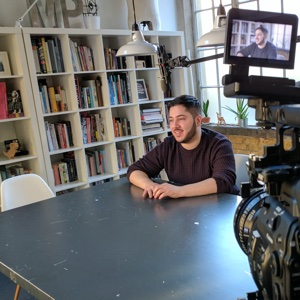
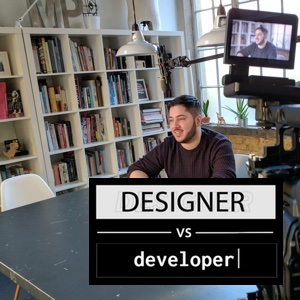
adding podcast

Changed region(s): [[0.27, 0.57, 0.96, 0.96]]

diff --git a/gulp-tasks/build.js b/gulp-tasks/build.js
@@ -79,7 +79,7 @@ gulp.task('build:http203Podcast', function() {
   wfTemplateHelper.generatePodcastFeed(files, options);
 });
 
-gulp.task('build:DesignerVsDeveloper', function() {
+gulp.task('build:DVDPodcast', function() {
   var src = 'shows/designer-vs-developer/podcast/';
   var baseOutputPath = path.join(GLOBAL.WF.src.content, src);
   var options = {
@@ -93,7 +93,9 @@ gulp.task('build:DesignerVsDeveloper', function() {
     baseUrl: 'https://developers.google.com/web/shows/designer-vs-developer/podcast/'
   };
   var files = wfHelper.getFileList(baseOutputPath, ['*.md', '!index.md']);
+  console.log(files);
   files.sort(wfHelper.updatedComparator);
+
   wfTemplateHelper.generateListPage(files, options);
   wfTemplateHelper.generatePodcastFeed(files, options);
 });
@@ -154,6 +156,7 @@ gulp.task('build', function(cb) {
       'build:showcase',
       'build:shows',
       'build:http203Podcast',
+      'build:DVDPodcast',
       'build:tools',
       'build:updates'
     ],

diff --git a/src/content/en/shows/designer-vs-developer/podcast/DVDS1E01-creating-a-collaborative-environment.md b/src/content/en/shows/designer-vs-developer/podcast/DVDS1E01-creating-a-collaborative-environment.md
@@ -1,22 +1,23 @@
 project_path: /web/_project.yaml
 book_path: /web/shows/_book.yaml
-description: Just make it look pretty...
+description: This week we speak to Jake Archibald about communication and the assumption that designers and developers sole role is to either make things look pretty or to be a cog in a machine with no soul.
 
-{# wf_updated_on: 2017-07-03 #}
-{# wf_published_on: 2017-07-03 #}
-{# wf_podcast_audio: https://storage.googleapis.com/http-203-podcast/episode-2.mp3 #}
-{# wf_podcast_duration: 00:13:08 #}
+
+{# wf_updated_on: 2017-03-07 #}
+{# wf_published_on: 2017-03-07 #}
+{# wf_podcast_audio: https://storage.googleapis.com/http-203-podcast/designer-vs-developer/dvd-s01-e01-creative-collaborations.mp3 #}
+{# wf_podcast_duration: 00:13:28 #}
 {# wf_podcast_fileSize: 12609607 #}
 {# wf_podcast_subtitle: This week we speak to Jake Archibald about communication and the assumption that designers and developers sole role is to either make things look pretty or to be a cog in a machine with no soul. #}
-{# wf_featured_image: /web/shows/designer-vs-developer/podcast/images/dvd-s1-ep01.png #}
+{# wf_featured_image: /web/shows/designer-vs-developer/podcast/images/dvd-series-cover.jpg #}
 
-# Just make it look pretty... {: .page-title }
+# Creating a collaborative environment {: .page-title }
 
 Welcome to Designer Vs Developer, a show that tries to solve the challenges faced in industry by having an open conversation between the two, providing take aways, solutions to workflows, tools & discussions on everyday struggles. 
 
 This week we speak to Jake Archibald about communication and the assumption that designers and developers sole role is to either make things look pretty or to be a cog in a machine with no soul.
 
-<img src="/web/shows/designer-vs-developer/podcast/images/dvd-s1-ep01.png" class="attempt-right">
+<img src="/web/shows/designer-vs-developer/podcast/images/dvd-s01-e01-cover.jpg" class="attempt-right">
 
 In this episode:
 
@@ -26,9 +27,9 @@ In this episode:
 * Jake's Service Workers
 * Designers lack of version control
 
-<a href="http://feeds.feedburner.com/Http203Podcast">
+<!-- <a href="http://feeds.feedburner.com/Http203Podcast">
   <span class="material-icons">rss_feed</span>
   Subscribe
-</a>
+</a> -->
 
-<audio src="https://storage.googleapis.com/http-203-podcast/episode-2.mp3" controls preload="none">
+<audio src="https://storage.googleapis.com/http-203-podcast/designer-vs-developer/dvd-s01-e01-creative-collaborations.mp3" controls preload="none">

diff --git a/src/content/en/shows/designer-vs-developer/podcast/index.md b/src/content/en/shows/designer-vs-developer/podcast/index.md
@@ -1,0 +1,30 @@
+project_path: /web/_project.yaml
+book_path: /web/shows/_book.yaml
+
+{# wf_auto_generated #}
+{# wf_updated_on: 1900-01-01 #}
+{# wf_published_on: 1900-01-01 #}
+
+# Designer Vs Developer {: .page-title }
+
+
+## Creating a collaborative environment
+<div class="attempt-right">
+    <img src="/web/shows/designer-vs-developer/podcast/images/dvd-series-cover.jpg">
+</div>
+This week we speak to Jake Archibald about communication and the assumption that designers and developers sole role is to either make things look pretty or to be a cog in a machine with no soul.
+
+[Read more](/web/shows/designer-vs-developer/podcast/DVDS1E01-creating-a-collaborative-environment)
+
+
+
+
+<div style="clear:both"></div>
+
+
+<a href="https://developers.google.com/web/shows/rss.xml">
+  <img src="/web/images/md-icons/ic_rss_feed_black_48dp.svg" style="height:36px;">
+  <span style="position:relative;top:-6px;">Subscribe</span>
+  <link rel="alternate" type="application/rss+xml" title="RSS" href="https://developers.google.com/web/shows/rss.xml">
+  <link rel="alternate" type="application/atom+xml" title="ATOM" href="https://developers.google.com/web/shows/atom.xml">
+</a>

diff --git a/src/content/en/shows/designer-vs-developer/index.md b/src/content/en/shows/designer-vs-developer/index.md
@@ -2,12 +2,12 @@ project_path: /web/_project.yaml
 book_path: /web/shows/_book.yaml
 description: Welcome to Designer Vs Developer, a show that tries to solve the challenges faced in industry by opening a conversation between the two, providing take aways, solutions to workflows, tools & discussions on everyday struggles. 
 
-{# wf_updated_on: 2017-07-03 #}
-{# wf_published_on: 2017-07-03 #}
+{# wf_updated_on: 2016-08-24 #}
+{# wf_published_on: 2016-08-24 #}
 
-# HTTP 203 {: .page-title }
+# Designer Vs Developer {: .page-title }
 
-<img src="../imgs/http203_rect.jpg" class="attempt-right">
+<img src="images/dvd-s1-ep01.png" class="attempt-right">
 
 **Welcome to Designer Vs Developer** A show that tries to solve the challenges faced in industry by opening a conversation between the two, providing take aways, solutions to workflows, tools & discussions on everyday struggles. 
 
